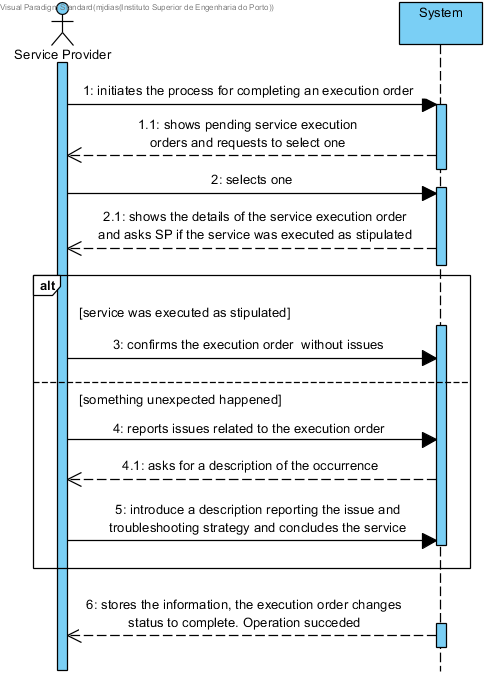
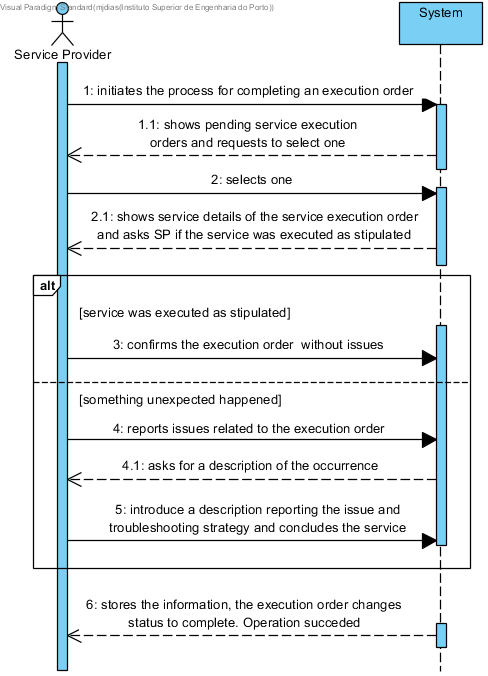
Last fix to requirements engineering [UC-13] [UseCases]

Changed region(s): [[0.1844, 0.3107, 0.8607, 0.3728]]

diff --git a/UseCases/UC13_CompleteService.md b/UseCases/UC13_CompleteService.md
@@ -2,7 +2,7 @@
 
 ## Brief Description
 
-The Service Provider (SP) initiates the process for completing an execution order. The system shows pending service execution orders and requests to select one. The Service Provider selects one. The system shows the details of the execution order and asks SP if the service was executed as stipulated. The SP can confirm or report any occurrence. If the service was executed as stipulated, the SP concludes it. If something unexpected happened, the system asks for a description of that occurrence. The Service Provider introduce a description reporting the issue and troubleshooting strategy and concludes the service. The system stores the information and the execution order changes status to complete.
+The Service Provider (SP) initiates the process for completing an execution order. The system shows pending service execution orders and requests to select one. The Service Provider selects one. The system shows service details of the execution order and asks SP if the service was executed as stipulated. The SP can confirm or report any occurrence. If the service was executed as stipulated, the SP concludes it. If something unexpected happened, the system asks for a description of that occurrence. The Service Provider introduce a description reporting the issue and troubleshooting strategy and concludes the service. The system stores the information and the execution order changes status to complete.
 
 ## SSD
 ![SSD_UC13.png](SSD_UC13.png)
@@ -27,7 +27,7 @@ Existence of pending execution order
 1. The Service Provider (SP) initiates the process for completing a service order.
 2. The system shows pending service execution orders and requests to select one.
 3. The Service Provider selects one.
-4. The system shows the details of the service order and asks SP if the service was executed as stipulated.
+4. The system shows service details of the execution order and asks SP if the service was executed as stipulated.
 5. The SP can confirm or report any occurrence.
 6. If the service was executed as stipulated, the SP concludes it.
 7. If something unexpected happened. The system asks for a description of that occurrence.
